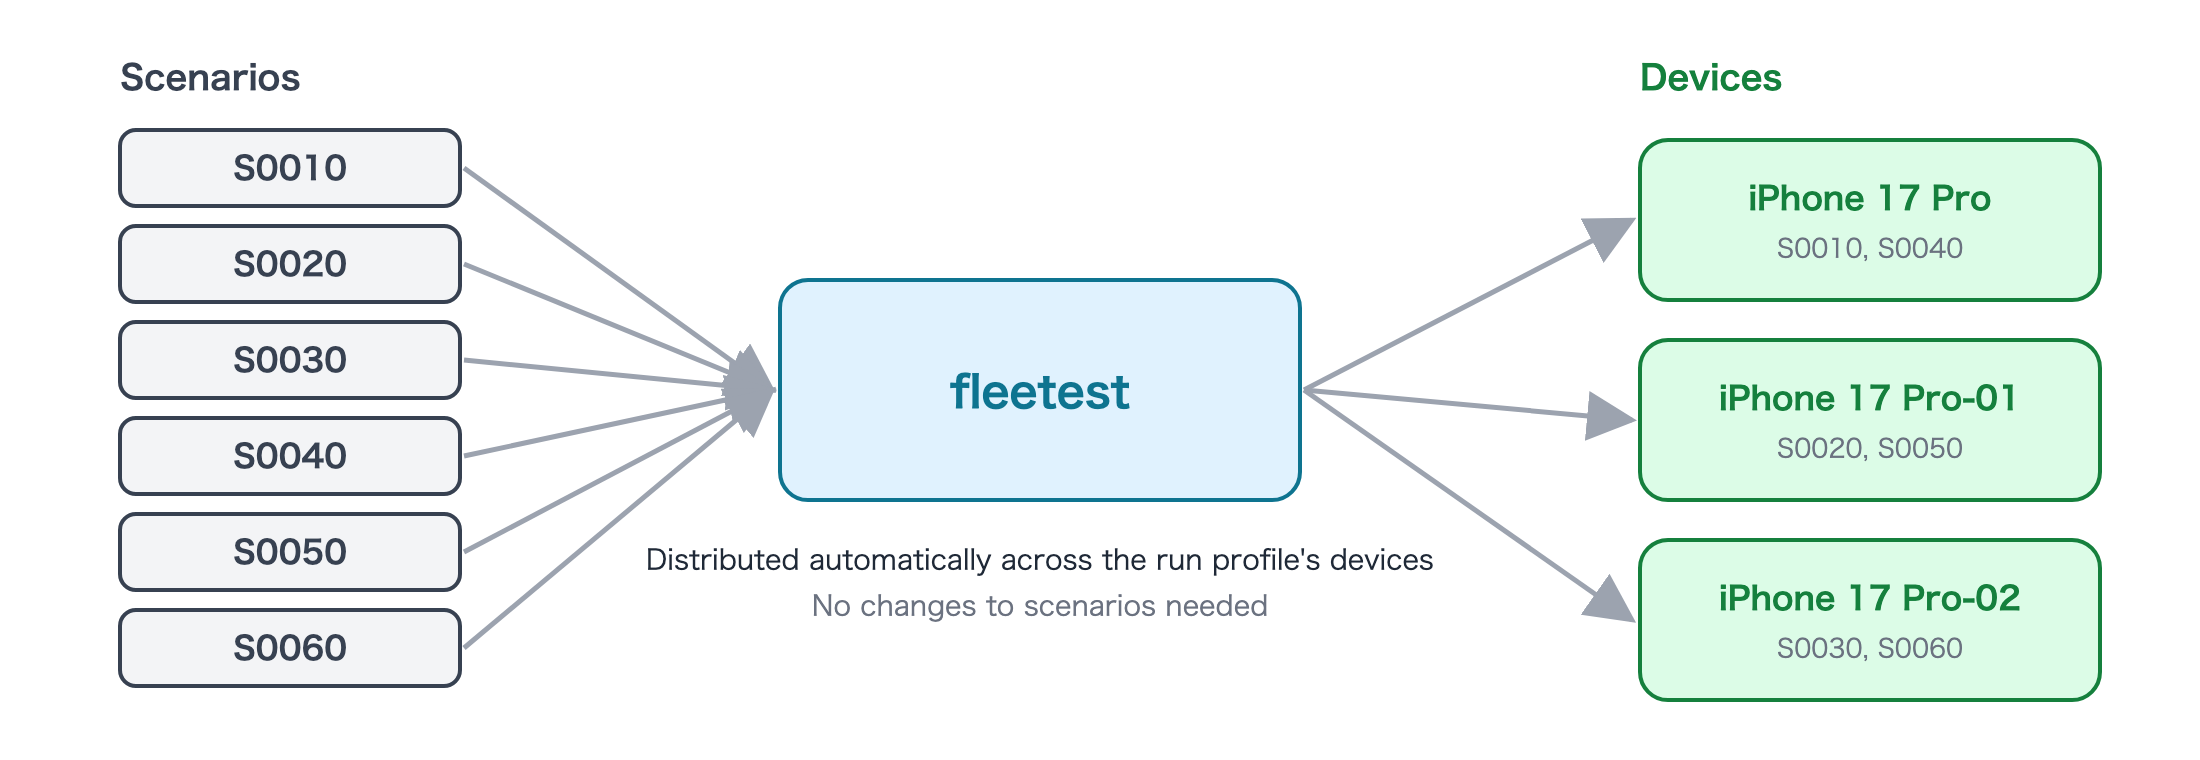
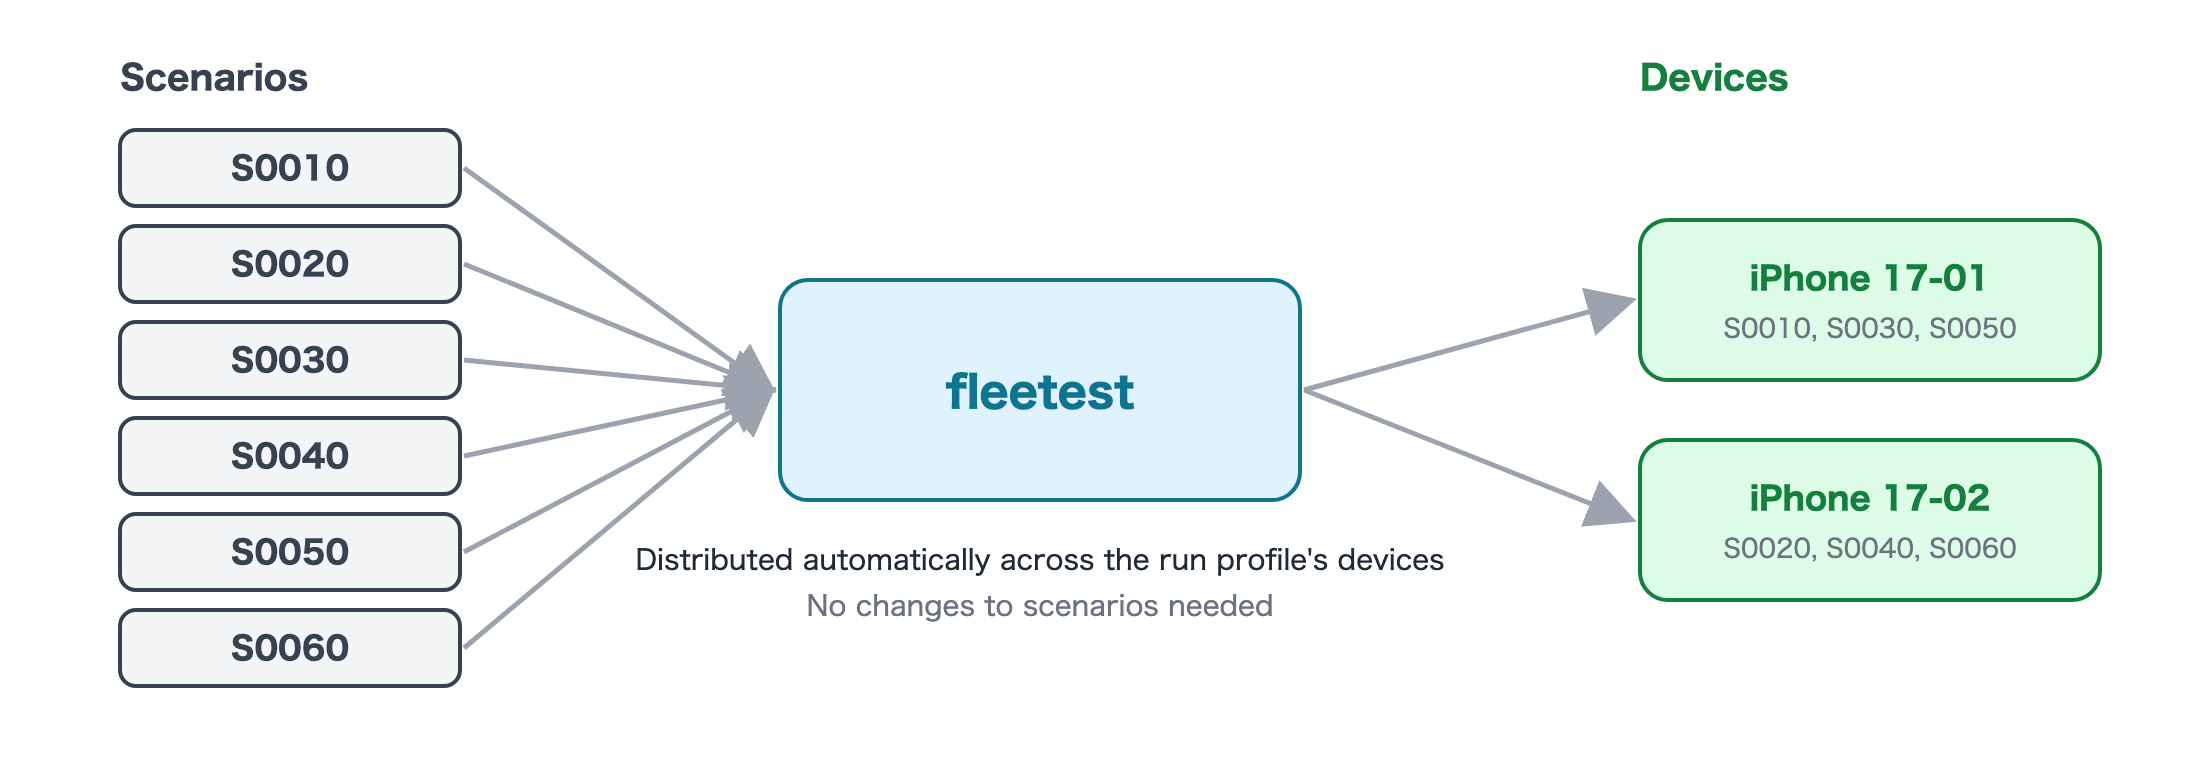
docs(user-docs): 並列実行の図を2台にする
チュートリアルの「デバイスを用意する」で ios-run を2台にする流れに合わせる。gen_diagrams.py に、
作り直す図を名前で選ぶ引数を足す(全部を作り直すと描画の差で無変更の図も差分になるため)。

diff --git a/docs/user-docs/images/tutorial/gen_diagrams.py b/docs/user-docs/images/tutorial/gen_diagrams.py
@@ -102,9 +102,10 @@ def parallel(t):
     b+=f'<text x="520" y="285" text-anchor="middle" font-size="14" fill="{C["ink"]}">{t["par_q"]}</text>'
     b+=f'<text x="520" y="308" text-anchor="middle" font-size="14" fill="{C["sub"]}">{t["par_note"]}</text>'
     for i in range(6): b+=arrow(232,84+i*48,386,195)
-    devs=[("iPhone 17 Pro",["S0010","S0040"]),("iPhone 17 Pro-01",["S0020","S0050"]),("iPhone 17 Pro-02",["S0030","S0060"])]
+    # チュートリアルの「デバイスを用意する」で ios-run を2台にする流れに合わせる
+    devs=[("iPhone 17-01",["S0010","S0030","S0050"]),("iPhone 17-02",["S0020","S0040","S0060"])]
     for i,(d,ss) in enumerate(devs):
-        y=70+i*100
+        y=110+i*110
         b+=box(820,y,230,80,C["devBg"],C["dev"],d,", ".join(ss),ts=16)
         b+=arrow(652,195,816,y+40)
     return svg(W,H,b)
@@ -116,7 +117,9 @@ def render(name,lang,svgtext,w,h):
     out=f"{OUT}/{lang}/{name}.png"
     subprocess.run([CHROME,"--headless=new","--disable-gpu","--hide-scrollbars","--force-device-scale-factor=2",f"--window-size={w},{h}",f"--screenshot={out}",f"file://{p}"],check=True,capture_output=True)
     print(out)
+# 引数で図の名前を渡すとその図だけ作り直す(省略で全部。作り直すとフォントの描画差で無変更の図も差分になる)
+only=set(sys.argv[1:])
 for lang,t in T.items():
-    render("how_it_works",lang,overview(t),1200,520)
-    render("ai_workflow",lang,steps(t),1100,200)
-    render("parallel_run",lang,parallel(t),1100,380)
+    for name,fn,w,h in [("how_it_works",overview,1200,520),("ai_workflow",steps,1100,200),("parallel_run",parallel,1100,380)]:
+        if not only or name in only:
+            render(name,lang,fn(t),w,h)
